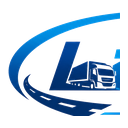
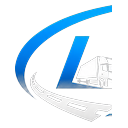
Add files via upload

diff --git a/index.html b/index.html
@@ -78,10 +78,11 @@
   }
   .brand{display:flex; align-items:center; gap:10px; padding:6px 8px 22px; border-bottom:1px solid var(--navy-700); margin-bottom:14px;}
   .brand-mark{
-    /* Sesi kedelapanpuluhenam: latar putih (bukan lagi kotak biru polos) supaya logo LINTAS asli
-       (dominan navy/biru) tetap kontras jelas di atas sidebar yang gelap. */
-    width:34px; height:34px; border-radius:9px; background:#fff;
-    display:flex; align-items:center; justify-content:center; flex-shrink:0; padding:4px;
+    /* Sesi kedelapanpuluhtujuh: ganti ke varian logo putih/silver (dirancang untuk latar gelap) --
+       jadi latar kotak TIDAK perlu putih lagi (dulu supaya logo navy kontras di sidebar gelap).
+       Sekarang transparan, menyatu langsung dengan latar sidebar (--navy-900). */
+    width:34px; height:34px; border-radius:9px; background:transparent;
+    display:flex; align-items:center; justify-content:center; flex-shrink:0; padding:2px;
   }
   .brand-mark svg{width:19px; height:19px; stroke:#fff;}
   .brand-name{color:#fff; font-weight:700; font-size:15px; letter-spacing:.01em;}
@@ -189,9 +190,10 @@
     box-shadow:0 8px 20px rgba(47,128,198,.45);
   }
   .login-mark svg{width:24px; height:24px;}
-  /* Logo LINTAS asli (Sesi kedelapanpuluhenam) -- menggantikan .login-mark (kotak ikon truk generik) +
-     <h1> teks "LINTAS" polos. Filter drop-shadow tipis putih supaya logo (dominan biru tua/terang)
-     tetap kelihatan jelas kontras di atas kartu login yang gelap/transparan. */
+  /* Logo LINTAS asli (Sesi kedelapanpuluhenam, diganti varian putih/silver di Sesi kedelapanpuluhtujuh)
+     -- menggantikan .login-mark (kotak ikon truk generik) + <h1> teks "LINTAS" polos. Filter
+     drop-shadow gelap supaya tepi logo (dominan putih/silver) tetap kelihatan jelas & tidak
+     "menyatu" dengan foto latar / kartu login yang gelap-transparan. */
   .login-logo-img{display:block; width:100%; max-width:230px; height:auto; margin:0 auto 10px;
     filter:drop-shadow(0 2px 10px rgba(0,0,0,.35));}
   .login-card h1{font-size:19px; margin:0 0 4px; color:#fff; letter-spacing:.01em;}
@@ -833,7 +835,10 @@
   <div class="login-scrim"></div>
   <div class="login-card" id="loginCard">
     <img src="./logo-lintas-wordmark.png" alt="LINTAS - Lingga Integrated Transport Administration System" class="login-logo-img">
-    <p class="login-slogan">Lingga Integrated Transport Administration System</p>
+    <!-- Sesi kedelapanpuluhtujuh: <p class="login-slogan"> teks "Lingga Integrated Transport
+         Administration System" dihapus dari sini -- sekarang REDUNDAN karena logo baru (varian
+         putih/silver) sudah menampilkan sendiri tulisan "lingga" + tagline "Integrated Transport
+         Administration System" di dalam gambarnya. -->
     <p id="authSubtitle">Masuk untuk mengakses sistem</p>
 
     <div class="auth-tabs">
